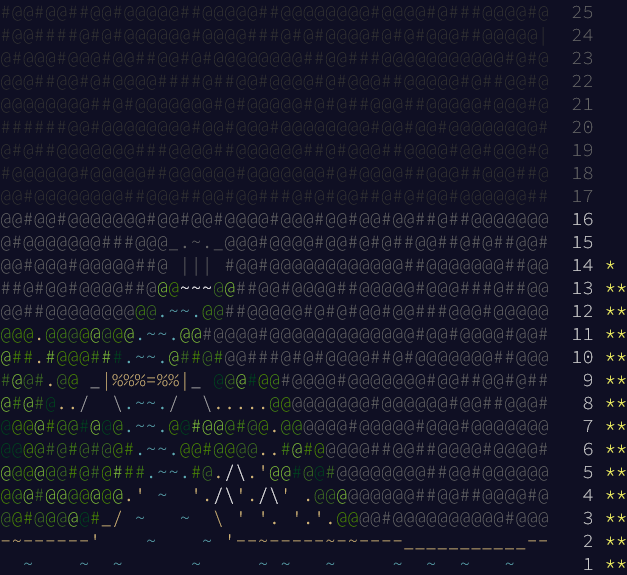
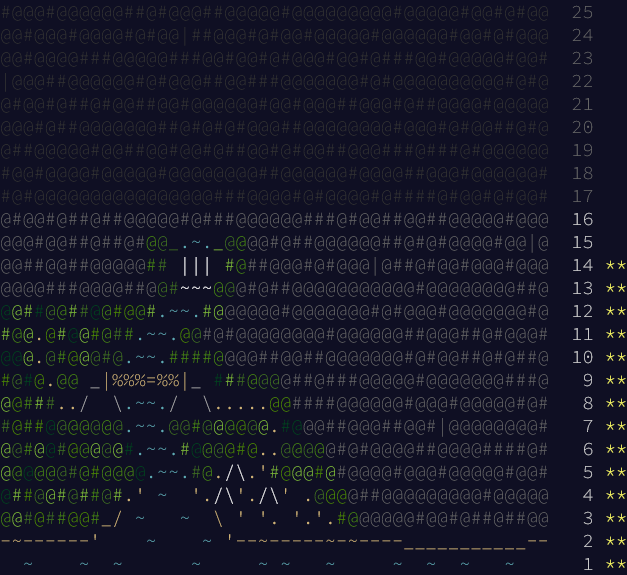
rust: 2022.14, part 2: solve

diff --git a/2022/rust/src/aoc14.rs b/2022/rust/src/aoc14.rs
@@ -120,11 +120,11 @@ where
         for i in 0.. {
             let mut sand = SAND_START;
             loop {
-                let current = sand;
-                sand.1 += 1;
-                if sand.1 > coordinates.y_max {
+                if sand.1 >= coordinates.y_max {
                     return Some(i);
                 }
+                let current = sand;
+                sand.1 += 1;
                 if !coordinates.inner.contains(&sand) {
                     continue;
                 }
@@ -144,8 +144,38 @@ where
         unreachable!()
     }
 
-    fn part2(_input: I) -> Option<u32> {
-        todo!()
+    fn part2(input: I) -> Option<u32> {
+        let mut coordinates = parse_scan(input);
+
+        for i in 0.. {
+            let mut sand = SAND_START;
+            loop {
+                if coordinates.inner.contains(&sand) {
+                    return Some(i);
+                }
+                if sand.1 >= coordinates.y_max + 1 {
+                    coordinates.inner.insert(sand);
+                    break;
+                }
+                let current = sand;
+                sand.1 += 1;
+                if !coordinates.inner.contains(&sand) {
+                    continue;
+                }
+                sand.0 -= 1;
+                if !coordinates.inner.contains(&sand) {
+                    continue;
+                }
+                sand.0 += 2;
+                if !coordinates.inner.contains(&sand) {
+                    continue;
+                }
+                coordinates.inner.insert(current);
+                break;
+            }
+        }
+
+        unreachable!()
     }
 }
 

diff --git a/2022/README.md b/2022/README.md
@@ -10,8 +10,8 @@
 ##@@####@@@@@@@@#@@@@@#@@##@#@@#@##@##@@##@##@@#@  18
 @@@@@#@#@@@####@@#@@@@#@@####@@@#@@###@@@#@@@@@##  17
 @@@@@@@@@@#@@@@#@##@@@##@@@@@#@@@@@@@@##@@#@@@@@@  16
-@#@@@@@@@###@@@_.~._@@@#@@@@#@@#@#@##@@##@#@##@@#  15 
-@@#@@@#@@@@@##@ ||| #@@#@@@@@@@@@@@@##@@@@@@@##@@  14 *
+@@@#@@##@##@#@@_.~._@@@@#@##@@@@@@##@#@#@@@@#@@|@  15 
+@@##@@##@@@@@## ||| #@##@@@#@#@@@|@##@#@@#@@@#@@@  14 **
 @@#@#@######@@#@~~~@@@#@###@@#@@@#@@@#@@#@@@@#@@@  13 **
 @#@@@@#@@@@@@@.~~.@#@@@##@@#@@@@@#@#@####@##@@#@@  12 **
 #@##@@#@#@##.~~.@@@@@@@@@@@###@#@@#@@@@###@@@@@@@  11 **
@@ -27,4 +27,4 @@
   ~    ~  ~      ~     ~ ~   ~     ~  ~  ~   ~      1 **
 ```
 
-![Calendar after day 14, part 1](calendar.png)
+![Calendar after day 14](calendar.png)
